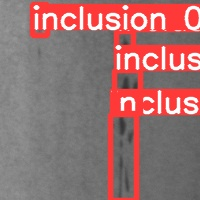
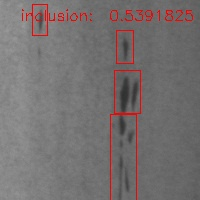
[ADD] adding draw + detection for yoloV5 (finished) + errors check, need to finish : test

Changed region(s): [[0.09, 0.0, 1.0, 1.0]]

diff --git a/src/system_recognition/main_system_recognition.py b/src/system_recognition/main_system_recognition.py
@@ -13,6 +13,7 @@
 
 import os
 import shutil
+import cv2
 
 from imperfection.main_imperfection import Imperfection
 
@@ -42,17 +43,7 @@ class SystemRecognition:
         self.image_name = name
         self.algorithm = algorithm
         self.list_class_imperfections = []
-
-    def draw_all_classes_yoloV5(self):
-        if os.path.isdir('./yolov5/runs'):
-            shutil.rmtree('./yolov5/runs')
-        prog = "python3 ./yolov5/detect.py --weights ./yolov5/weights/best.pt --img 416 --conf 0.4 --source" + str(self.image_path)
-        os.system(prog)
-
-        if not os.path.isdir('./results'):
-            os.mkdir('./results')
-        shutil.copyfile("./yolov5/runs/detect/exp/" + self.image_name + "." + self.image_ext, "./results/" + self.image_name + "." + self.image_ext)
-        print("\033[1m" + "[INFO] -> Results are in \"results\" directory" + "\033[0m")
+        self.class_most_conf = None
 
     def detect_yoloV5(self):
         classes_count = []
@@ -61,22 +52,92 @@ class SystemRecognition:
 
         if os.path.isdir('./yolov5/runs'):
             shutil.rmtree('./yolov5/runs')
-        prog = "python3 ./yolov5/detect.py --weights ./yolov5/weights/best.pt --img 416 --conf 0.4 --save-conf --source " + str(self.image_path) + " --nosave " + "--save-txt"
+        prog = "python3 ./yolov5/detect.py --weights ./yolov5/weights/best.pt --img 416 --conf 0.4 --save-conf --source "\
+               + str(self.image_path) + " --nosave " + "--save-txt"
         os.system(prog)
         print("\n___________________________________________________________\n\n")
-        with open("./yolov5/runs/detect/exp/labels/" + self.image_name + ".txt") as f:
-            lines = f.readlines()
-            for line in lines:
-                classes_count.append(int(line.split(' ')[0]))
-                confidence_count.append(float(line.split(' ')[5]))
-            class_most_conf = get_class_most_confident_sum(classes_count, confidence_count)
-            for line in lines:
-                l = line.split(' ')
-                if int(l[0]) == class_most_conf:
-                    self.list_class_imperfections.append(Imperfection(float(l[1]), float(l[2]), float(l[3]), float(l[4]), int(l[0])))
+        if not os.path.isfile(("./yolov5/runs/detect/exp/labels/" + self.image_name + ".txt")):
+            self.list_class_imperfections.append(Imperfection(0, 0, 0, 0, 0, 0))
+        else:
+            with open("./yolov5/runs/detect/exp/labels/" + self.image_name + ".txt") as f:
+                lines = f.readlines()
+                for line in lines:
+                    classes_count.append(int(line.split(' ')[0]))
+                    confidence_count.append(float(line.split(' ')[5]))
+                self.class_most_conf = get_class_most_confident_sum(classes_count, confidence_count)
+                for line in lines:
+                    splited = line.split(' ')
+                    if int(splited[0]) == self.class_most_conf:
+                        self.list_class_imperfections.append(Imperfection(float(splited[1]),
+                                                                          float(splited[2]),
+                                                                          float(splited[3]),
+                                                                          float(splited[4]),
+                                                                          int(splited[0]),
+                                                                          float(splited[5])))
 
         if os.path.isdir('./yolov5/runs'):
             shutil.rmtree('./yolov5/runs')
+
+    def draw_yoloV5(self):
+        img = cv2.imread(self.image_path)
+        dim = img.shape
+        result_list = []
+        imperfections = self.get_imperfections()
+        label_str = ""
+        classification = 0
+        drawed = None
+
+        for imper in imperfections:
+            classification = imper[0]
+            x = imper[1]
+            y = imper[2]
+            w = imper[3]
+            h = imper[4]
+            confidence = imper[5]
+
+            print("0 -> " + str(imper))
+
+            x1 = max(int((x - w / 2) * dim[1]), 0)
+            y1 = min(int((y - h / 2) * dim[0]), dim[0])
+            x2 = max(int((x + w / 2) * dim[1]), 0)
+            y2 = min(int((y + h / 2) * dim[0]), dim[0])
+            result_list.append(confidence)
+
+            drawed = cv2.rectangle(img, (x1, y1), (x2, y2), (0, 0, 255), 1)
+
+        if classification == 0:
+            label_str = "inclusion"
+        elif classification == 1:
+            label_str = "patches"
+        elif classification == 2:
+            label_str = "scratches"
+        result_mean = sum(result_list) / len(result_list)
+        text_to_draw = label_str + ":  " + str(result_mean)
+        drawed = cv2.putText(img=drawed, text=text_to_draw, org=(20, 20), fontFace=0, fontScale=0.5, color=(0, 0, 255), thickness=1)
+
+        if not os.path.isdir('./results'):
+            os.mkdir('./results')
+        cv2.imwrite("./results/" + self.image_name + "." + self.image_ext, drawed)
+        print("\033[1m" + "[INFO] -> Image result in \"results\" directory" + "\033[0m")
+
+    def detect_fastRCNN(self):
+        print("\033[1m" + "[INFO] -> Fast RCNN is not implemented yet ..." + "\033[0m")
+
+    def draw_fastRCNN(self):
+        print("\033[1m" + "[INFO] -> Fast RCNN is not implemented yet ..." + "\033[0m")
+
+    def get_class_most_conf(self):
+        return self.class_most_conf
+
+    def get_image(self):
+        return [self.image_path, self.image_name, self.image_ext]
+
+    def get_algorithm(self):
+        return self.algorithm
+
+    def get_imperfections(self):
+        class_imperfections = self.list_class_imperfections
+        return [i.get_coords_class() for i in class_imperfections]
 
     def print_info(self):
         print("\033[1m" + "[CLASS] System Recognition" "\033[0m")

diff --git a/src/imper_detect/main_imper_detect.py b/src/imper_detect/main_imper_detect.py
@@ -11,29 +11,40 @@
 # ** https://github.com/Luisrosario2604
 # */
 
-import os
-import shutil
 
-from imperfection.main_imperfection import Imperfection
 from system_recognition.main_system_recognition import SystemRecognition
 
 
 class ImperDetect:
 
     def __init__(self, image_path, algorithm="yoloV5"):
-        self.image_path = image_path
-        self.algorithm = algorithm
-        self.class_system_recognition = SystemRecognition(image_path, algorithm)
+        if algorithm not in ["yoloV5", "Fast_RCNN"]:
+            raise Exception("\033[1m" + "[ERROR] -> Algorithm as not a vadid name" + "\033[0m")
 
-    def draw(self):
-        print("draw")
+        self.class_system_recognition = SystemRecognition(image_path, algorithm)
+        self.detection_called = False
 
     def detection(self):
-        if self.algorithm == "yoloV5":
+        if self.class_system_recognition.get_algorithm() == "yoloV5":
             self.class_system_recognition.detect_yoloV5()
+        elif self.class_system_recognition.get_algorithm() == "Fast_RCNN":
+            self.class_system_recognition.draw_fastRCNN()
+
+        self.detection_called = True
+
+    def draw(self):
+        if not self.detection_called:
+            raise Exception("\033[1m" + "[ERROR] -> You should call \"detection\" method before using this one" + "\033[0m")
+        if self.class_system_recognition.get_algorithm() == "yoloV5":
+            self.class_system_recognition.draw_yoloV5()
+        elif self.class_system_recognition.get_algorithm() == "Fast_RCNN":
+            self.class_system_recognition.draw_fastRCNN()
+
+    def get_class_system_recognition(self):
+        if not self.detection_called:
+            raise Exception("\033[1m" + "[ERROR] -> You should call \"detection\" method before using this one" + "\033[0m")
+        return self.class_system_recognition
 
     def print_info(self):
         print("\033[1m" + "[CLASS] Imper Detect" "\033[0m")
-        print("\t\timage path =\t\t", self.image_path)
-        print("\t\talgorithm used =\t", self.algorithm)
         self.class_system_recognition.print_info()

diff --git a/src/imperfection/main_imperfection.py b/src/imperfection/main_imperfection.py
@@ -12,12 +12,16 @@
 # */
 
 class Imperfection:
-    def __init__(self, x, y, h, w, classification):
+    def __init__(self, x, y, h, w, classification, confidence):
         self.x = x
         self.y = y
         self.h = h
         self.w = w
         self.classification = classification
+        self.confidence = confidence
+
+    def get_coords_class(self):
+        return [self.classification, self.x, self.y, self.h, self.w, self.confidence]
 
     def print_info(self, number=0):
         print("\033[1m" + "[CLASS] Imperfection " + str(number) + "\033[0m", end="")
@@ -25,4 +29,5 @@ class Imperfection:
               "  y:" + str(self.y) +
               "  w:" + str(self.w) +
               "  h:" + str(self.h) +
-              "  class:" + str(self.classification))
+              "  class:" + str(self.classification) +
+              "  confidence:" + str(self.confidence))

diff --git a/src/algorithm/main_algorithm.py b/src/algorithm/main_algorithm.py
@@ -13,8 +13,6 @@
 
 # Imports
 import argparse
-import numpy as np
-import cv2
 from imper_detect.main_imper_detect import ImperDetect
 
 # Global variables
@@ -40,11 +38,17 @@ def main():
     image_path = args["file"]
 
     imper = ImperDetect(image_path, "yoloV5")
+    # imper = ImperDetect(image_path, "Fast_RCNN")
     imper.detection()
     imper.print_info()
 
+    print("Algorithm : " + str(imper.get_class_system_recognition().get_algorithm()))
+    print("Imperfections : " + str(imper.get_class_system_recognition().get_imperfections()))
+    print("Class : " + str(imper.get_class_system_recognition().get_class_most_conf()))
+    print("Image : " + str(imper.get_class_system_recognition().get_image()))
+
     if args["store_result"]:
-        imper.draw_all_classes_yoloV5()
+        imper.draw()
 
 
 # Main body

diff --git a/tests/test_algorithm.py b/tests/test_algorithm.py
@@ -33,9 +33,3 @@ def test_multi_algorithm(test_input, expected):
 @pytest.mark.xfail
 def test_fail_algorithm():
     assert check_connection(1) == 0
-
-
-# @pytest.mark.skip(reason="classification not supported yet")
-# def test_classification():
-#     file = "Img/test"
-#     assert classification_result(file) == 0
